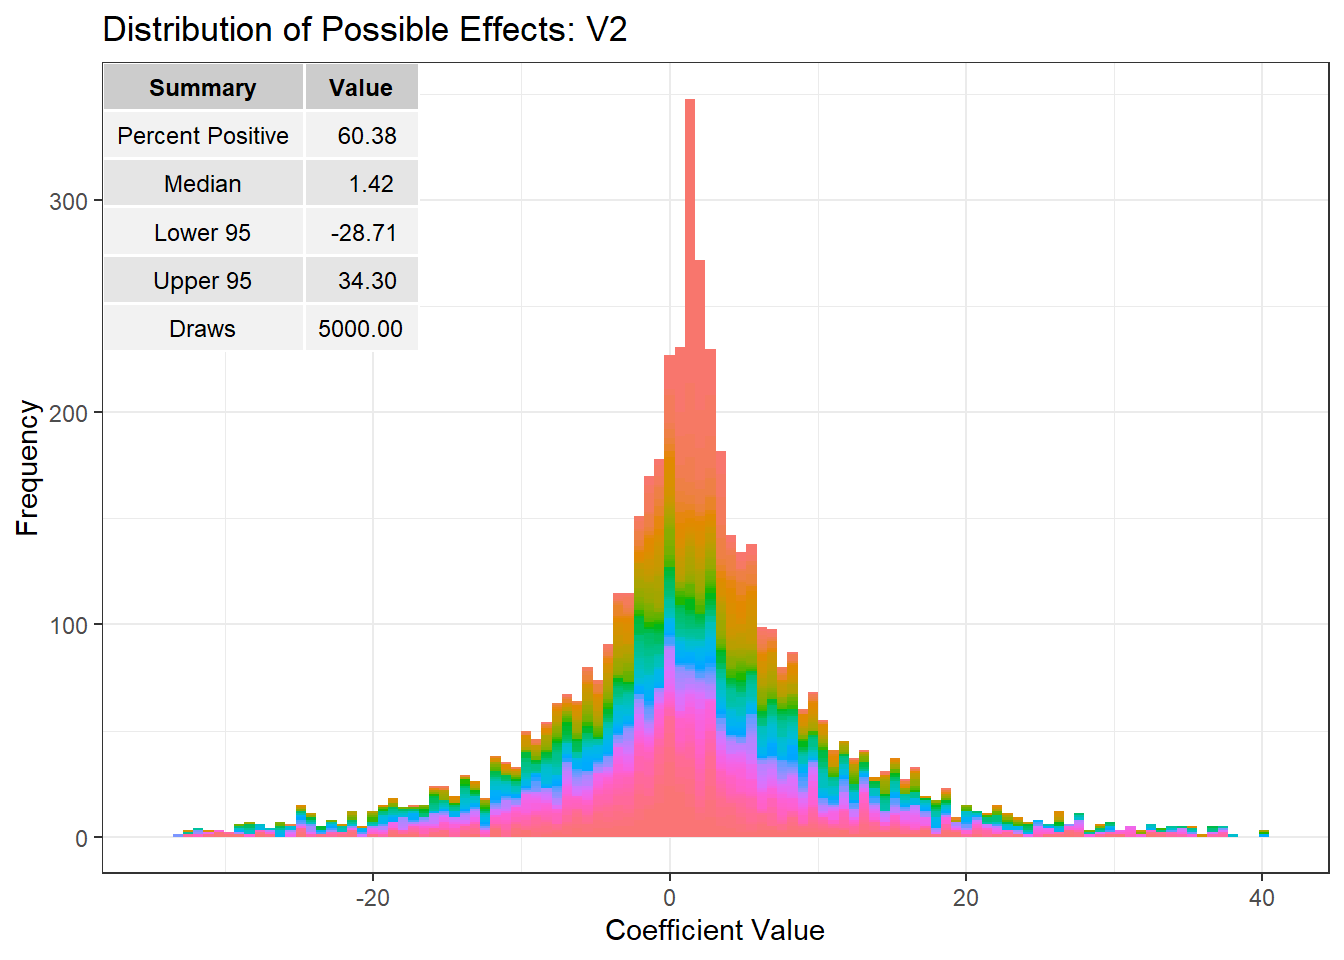
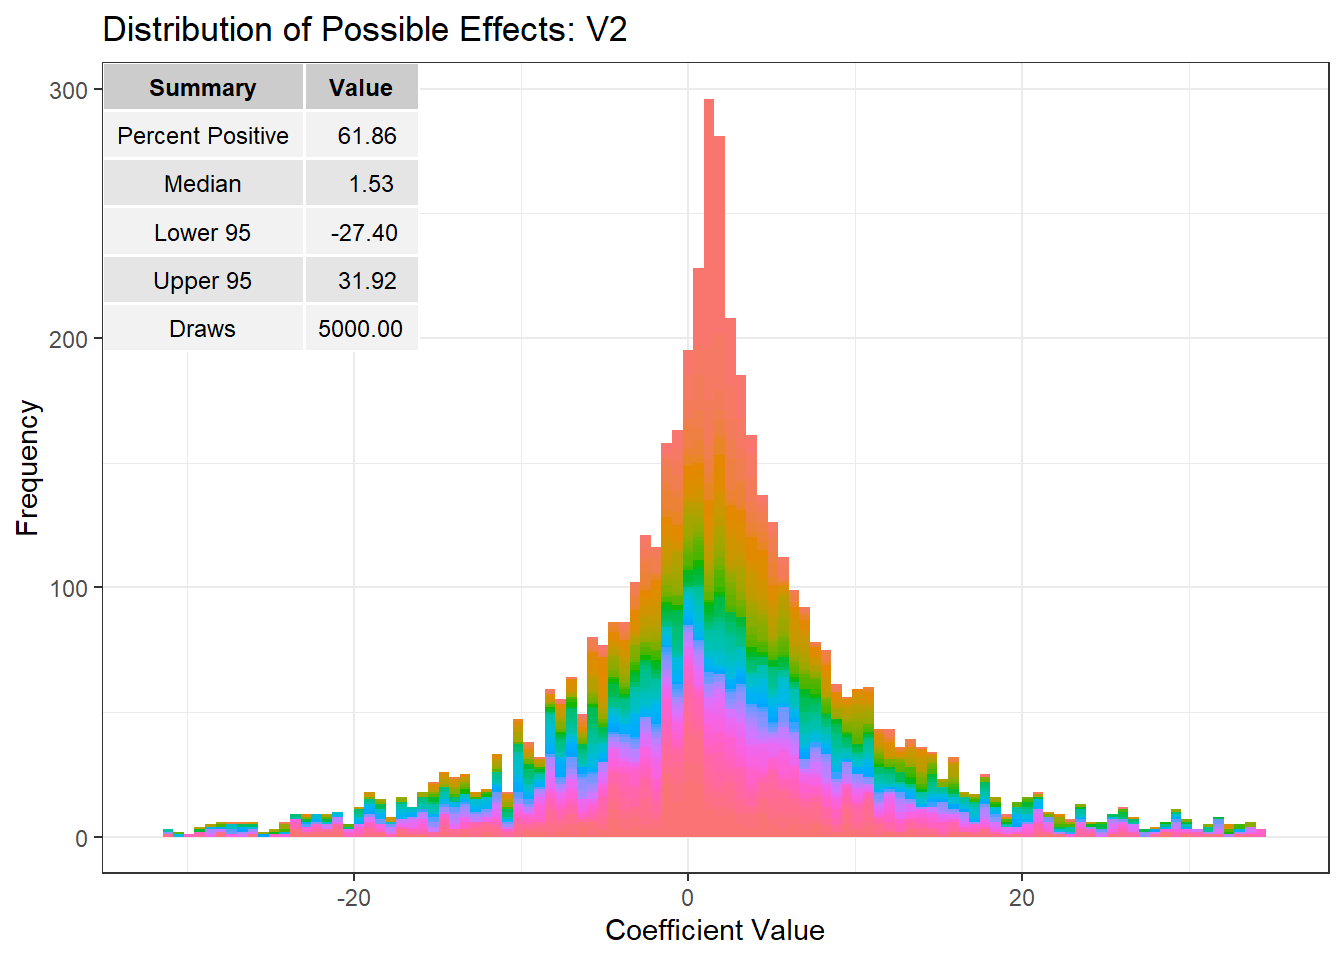
update README

diff --git a/README.md b/README.md
@@ -233,14 +233,14 @@ dope <- DOPE(mod, nsims = 5000, n.cores = parallel::detectCores())
 ``` r
 tail(dplyr::tbl_df(dope))
 ## # A tibble: 6 x 8
-##   Intercept     V1    V2     V3    V4      V5 ControlFunction R_Squared
-##       <dbl>  <dbl> <dbl>  <dbl> <dbl>   <dbl>           <dbl>     <dbl>
-## 1    0.385  28.1    7.96 -3.76  -2.10    7.36         -18.6       0.974
-## 2    0.0843  0.830  1.57  2.90   4.16    5.18           0.243     0.788
-## 3    0.0492  7.61   5.56  3.88  13.7    -1.62         -12.0       0.975
-## 4    0.312  16.1    1.52 -0.900 -1.35    1.64          -9.09      0.999
-## 5   -1.20   30.7   23.7  60.6   21.9  -157.           113.        0.846
-## 6    0.0747  0.628  1.56  2.75   4.12    5.30          NA         0.788
+##   Intercept      V1     V2     V3    V4      V5 ControlFunction R_Squared
+##       <dbl>   <dbl>  <dbl>  <dbl> <dbl>   <dbl>           <dbl>     <dbl>
+## 1   -0.433   46.9    4.92   4.72  -4.47 -77.4           -51.3       0.995
+## 2    0.173  -10.0   -6.43  -0.444 15.9   10.0            -8.07      0.874
+## 3    0.0349 -12.7   -9.27  -2.03  13.2    5.12            7.64      0.990
+## 4    0.0710   0.658  1.67   2.74   4.11   5.36            0.290     0.789
+## 5   -0.0375   0.293  0.410  1.13  10.6   -0.423           7.55      0.984
+## 6    0.0747   0.628  1.56   2.75   4.12   5.30           NA         0.788
 ```
 
 The result is a dataframe of `nsims` + 1 observations with columns for
@@ -390,8 +390,11 @@ and linearly transform the data where
 \\mathbf{C}^{-1}
 \\mathbf{X}](http://chart.apis.google.com/chart?cht=tx&chl=%5Cmathbf%7BX%7D%5E%2A%20%3D%20%5Cmathbf%7BC%7D%5E%7B-1%7D%20%5Cmathbf%7BX%7D
 "\\mathbf{X}^* = \\mathbf{C}^{-1} \\mathbf{X}") as an equivalent
-estimator.
+estimator. A similar approach can be taken to account for heterogeneity
+utilizing Aronow and Samii’s multiple regression weights or moving the
+estimand from the ATE to the ATT or ATC.
 
+Other approaches to heterogenous effects are straightforward to apply.
 Splines, kernels, and random effects with quadratic penalties have the
 form
 
@@ -434,6 +437,12 @@ that is
 
 </center>
 
+Depending on the goal, one could estimate
+![\\lambda](http://chart.apis.google.com/chart?cht=tx&chl=%5Clambda
+"\\lambda") as a mixed model, through cross-validation, or select a
+small value merely for computational convenience resulting in a
+continuous analogy to model saturation.
+
 More generally, semiparametric regression models with non-normal
 responses often have the form
 
@@ -446,8 +455,55 @@ responses often have the form
 
 </center>
 
-6 where
+where
 ![\\mathbf{z}](http://chart.apis.google.com/chart?cht=tx&chl=%5Cmathbf%7Bz%7D
 "\\mathbf{z}") is the working variable. These may be put into the
 desired format by first applying the data augmentation trick and then
 whitening.
+
+Another line for extensions would be towards inference beyond the mean.
+A convenient parametric framework is the family of Generalized Additive
+Models for Location, Scale, and Shape (GAMLSS). Unlike GLMs which are
+constrained to the single parameter exponential family of distributions,
+GAMLSS currently allows for well over 100 continuous, discrete, and
+mixed distributions as well as transformed, truncated, or censored
+versons of those distributions. In all cases, all parameters of the
+response variable may be modeled using explanatory variables and
+additive smoothers including those mentioned in the previous section.
+Currently limited to distributions with four or fewer parameters, the
+general form is usually characterized as
+
+![\\begin{equation} \\mathbf{Y} \\overset{ind}{\\sim}
+\\mathcal{D}(\\mathbf{\\mu},\\mathbf{\\sigma},\\mathbf{\\nu},\\mathbf{\\tau})
+\\end{equation}](http://chart.apis.google.com/chart?cht=tx&chl=%5Cbegin%7Bequation%7D%20%20%5Cmathbf%7BY%7D%20%5Coverset%7Bind%7D%7B%5Csim%7D%20%5Cmathcal%7BD%7D%28%5Cmathbf%7B%5Cmu%7D%2C%5Cmathbf%7B%5Csigma%7D%2C%5Cmathbf%7B%5Cnu%7D%2C%5Cmathbf%7B%5Ctau%7D%29%20%5Cend%7Bequation%7D
+"\\begin{equation}  \\mathbf{Y} \\overset{ind}{\\sim} \\mathcal{D}(\\mathbf{\\mu},\\mathbf{\\sigma},\\mathbf{\\nu},\\mathbf{\\tau}) \\end{equation}")
+
+where
+
+![\\eta\_k = g\_k(\\theta) = \\mathbf{X}\_k \\beta\_k + \\mathbf{Z}\_k
+\\gamma\_k](http://chart.apis.google.com/chart?cht=tx&chl=%5Ceta_k%20%3D%20g_k%28%5Ctheta%29%20%3D%20%5Cmathbf%7BX%7D_k%20%5Cbeta_k%20%2B%20%5Cmathbf%7BZ%7D_k%20%5Cgamma_k
+"\\eta_k = g_k(\\theta) = \\mathbf{X}_k \\beta_k + \\mathbf{Z}_k \\gamma_k")
+
+for ![\\theta \\in
+\\{\\mathbf{\\mu},\\mathbf{\\sigma},\\mathbf{\\nu},\\mathbf{\\tau}\\}](http://chart.apis.google.com/chart?cht=tx&chl=%5Ctheta%20%5Cin%20%5C%7B%5Cmathbf%7B%5Cmu%7D%2C%5Cmathbf%7B%5Csigma%7D%2C%5Cmathbf%7B%5Cnu%7D%2C%5Cmathbf%7B%5Ctau%7D%5C%7D
+"\\theta \\in \\{\\mathbf{\\mu},\\mathbf{\\sigma},\\mathbf{\\nu},\\mathbf{\\tau}\\}")
+corresponding to ![k \\in
+\\{1,2,3,4\\}](http://chart.apis.google.com/chart?cht=tx&chl=k%20%5Cin%20%5C%7B1%2C2%2C3%2C4%5C%7D
+"k \\in \\{1,2,3,4\\}"), i.e. location, scale, skew, and kurtosis,
+although the exact number and definition of parameters depends on the
+distribution being fit. In the above,
+![\\mathbf{X}](http://chart.apis.google.com/chart?cht=tx&chl=%5Cmathbf%7BX%7D
+"\\mathbf{X}") represents fixed effects and
+![\\mathbf{Z}](http://chart.apis.google.com/chart?cht=tx&chl=%5Cmathbf%7BZ%7D
+"\\mathbf{Z}") represents random effects – including splines or kernels
+– with
+![g(\\cdot)](http://chart.apis.google.com/chart?cht=tx&chl=g%28%5Ccdot%29
+"g(\\cdot)") as the link function; GLMs, GAMs, GLMMs, and GAMMs are all
+special cases. Such models are currently fit with a combination of IRLS
+and backfitting; relying on quadratic smoothers means that they may be
+“whitened” and “augmented” in the exact same way as those raised
+above, allowing for sensitivity analysis to be conducted for hypotheses
+beyond mean effects (i.e. treatment effects on variance, skew,
+kurtosis). If one is unwilling to make parametric assumptions, expectile
+smoothing is a viable alternative to quantile regression which gives an
+explicit solution as a least squares problem.
